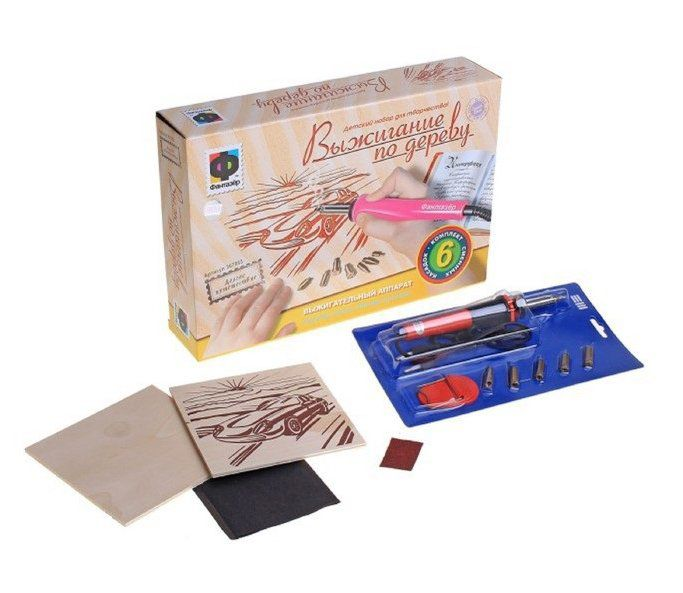
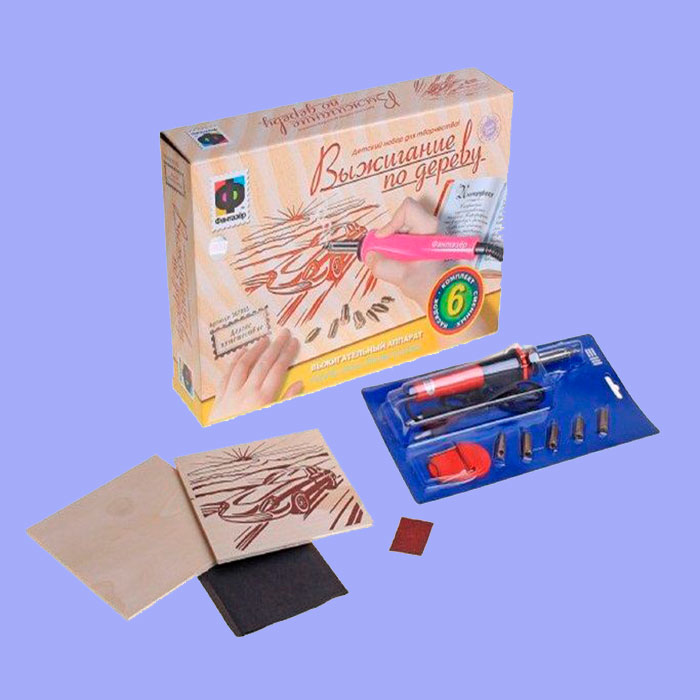
Добавил таймер

diff --git a/index.html b/index.html
@@ -15,27 +15,38 @@
       <div class="container">
         <div class="col-sm-12 text-center">
           <h1>Набор для выжигания</h1>
-          <p>Крутое решение для саморазвития</p>
         </div>
       </div>
     </div>
+    <div class="header__benefit">
+        <div class="prices__link col-sm-6 text-center">
+          <p>Обычная цена</p>
+          <p><span><s>14142тг.</s></span></p>
+        </div>
+        <div class="prices__link prices__link-middle">
+          <p>Скидка</p>
+          <p><span>30%</span></p>
+        </div>
+        <div class="prices__link col-sm-6 text-center">
+          <p>Цена сейчас</p>
+          <p><span>9900тг.</span></p>
+        </div>
+    </div>
     <div class="container">
       <div class="pic">
-        <img src="img/набор-3.jpg" class="img-fluid" alt="Детский набор">
+        <img src="img/набор-2.jpg" class="img-fluid" alt="Детский набор">
       </div>
     </div>
     <div class="prices">
-      <div class="prices__link col-sm-6 text-center">
-        <p>Обычная цена</p>
-        <p><span><s>14142тг.</s></span></p>
-      </div>
-      <div class="prices__link prices__link-middle">
-        <p>Скидка</p>
-        <p><span>30%</span></p>
-      </div>
-      <div class="prices__link col-sm-6 text-center">
-        <p>Цена сейчас</p>
-        <p><span>9900тг.</span></p>
+      <div class="container">
+        <div class="time__content text-center">
+          <h3>До конца акции осталось:</h3>
+          <div class="row time__block justify-content-center">
+            <script src="//megatimer.ru/get/9167f0dfecef2cf56ec63df0c954415d.js"></script>
+          </div>
+          <a href="#" data-value="sell" class="btn">Заказать со скидкой</a>
+          <p>*осталось <span>7</span> штук по акции</p>
+        </div>
       </div>
     </div>
   </header>
@@ -70,22 +81,7 @@
       <div class="time__content text-center">
         <h3>До конца акции осталось:</h3>
         <div class="row time__block justify-content-center">
-          <div class="time__data">
-            <div class="time__data-number">01</div>
-            <div class="time__data-date">дней</div>
-          </div>
-          <div class="time__data">
-            <div class="time__data-number">01</div>
-            <div class="time__data-date">дней</div>
-          </div>
-          <div class="time__data">
-            <div class="time__data-number">01</div>
-            <div class="time__data-date">дней</div>
-          </div>
-          <div class="time__data">
-            <div class="time__data-number">01</div>
-            <div class="time__data-date">дней</div>
-          </div>
+          <script src="//megatimer.ru/get/9167f0dfecef2cf56ec63df0c954415d.js"></script>
         </div>
         <a href="#" data-value="sell" class="btn">Заказать со скидкой</a>
         <p>*осталось <span>7</span> штук по акции</p>

diff --git a/css/main.css b/css/main.css
@@ -14490,21 +14490,25 @@ header {
 
 .header__title {
   width: 100%;
-  padding: 20px 0;
-  background: url(../img/header__bg.jpg);
-  background-size: cover; }
+  padding: 10px 0;
+  background: -webkit-gradient(linear, left top, right top, from(#484f62), to(#252b3c));
+  background: -webkit-linear-gradient(left, #484f62, #252b3c);
+  background: -o-linear-gradient(left, #484f62, #252b3c);
+  background: linear-gradient(90deg, #484f62, #252b3c); }
 
 h1 {
-  margin-top: 0;
+  margin: 0;
   font-size: 40px;
   font-family: '13888';
   font-weight: normal;
   font-style: normal;
-  letter-spacing: 5px;
-  text-shadow: 0 14px 28px rgba(0, 0, 0, 0.25), 0 10px 10px rgba(0, 0, 0, 0.22); }
+  letter-spacing: 2px; }
   @media screen and (max-width: 992px) {
     h1 {
       font-size: 27px; } }
+
+.header__benefit h2 {
+  color: #ffb022; }
 
 p {
   font-size: 18px; }
@@ -14516,6 +14520,7 @@ p {
 
 .pic {
   max-height: 450px;
+  background: #a4acfa;
   display: -webkit-box;
   display: -ms-flexbox;
   display: flex;
@@ -14574,7 +14579,7 @@ p {
   flex-direction: column;
   position: absolute;
   left: calc(50% - 50px);
-  top: -50px;
+  top: 0;
   width: 100px;
   height: 100px;
   border-radius: 50%;
@@ -14591,6 +14596,18 @@ p {
       top: -30px;
       width: 60px;
       height: 60px; } }
+
+.header__benefit {
+  width: 100%;
+  display: -webkit-box;
+  display: -ms-flexbox;
+  display: flex;
+  -webkit-box-orient: horizontal;
+  -webkit-box-direction: normal;
+  -ms-flex-direction: row;
+  flex-direction: row; }
+  .header__benefit.prices__link-middle {
+    top: 50px; }
 
 .prices__link-middle {
   -webkit-animation: run 3s infinite ease-in;

diff --git a/css/sections/header.scss b/css/sections/header.scss
@@ -6,21 +6,25 @@ header{
 
 .header__title{
   width: 100%;
-  padding: 20px 0;
-  background: url(../img/header__bg.jpg);
-  background-size: cover;
+  padding: 10px 0;
+  background: linear-gradient( 90deg, #484f62, #252b3c);
 }
 
 h1{
-  margin-top: 0;
+  margin: 0;
   font-size: 40px;
   font-family: '13888';
   font-weight: normal;
   font-style: normal;
-  letter-spacing: 5px;
-  text-shadow: 0 14px 28px rgba(0,0,0,0.25), 0 10px 10px rgba(0,0,0,0.22);
+  letter-spacing: 2px;
   @include laptop{
     font-size: 27px;
+  }
+}
+
+.header__benefit{
+  h2{
+    color: #ffb022;
   }
 }
 
@@ -36,6 +40,7 @@ p{
 
 .pic{
   max-height: 450px;
+  background: #a4acfa;
   display: flex;
   justify-content: center;
   img{
@@ -77,7 +82,7 @@ p{
   flex-direction: column;
   position: absolute;
   left: calc(50% - 50px);
-  top: -50px;
+  top: 0;
   width: 100px;
   height: 100px;
   border-radius: 50%;
@@ -91,6 +96,15 @@ p{
     top: -30px;
     width: 60px;
     height: 60px;
+  }
+}
+
+.header__benefit{
+  width: 100%;
+  display: flex;
+  flex-direction: row;
+  &.prices__link-middle{
+    top: 50px;
   }
 }
 
